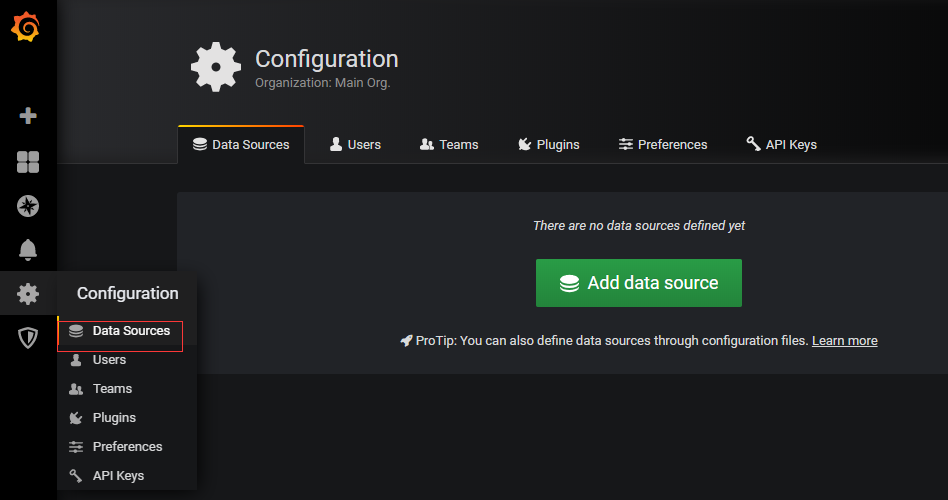
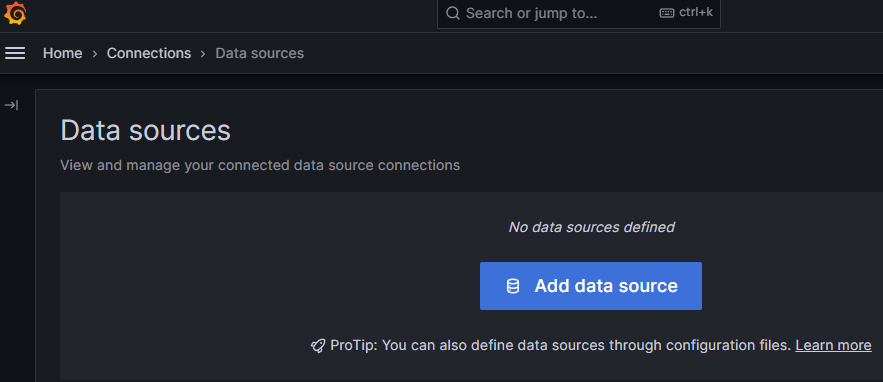
add new docs

diff --git a/i18n/en/docusaurus-plugin-content-docs/current/apps/grafana.md b/i18n/en/docusaurus-plugin-content-docs/current/apps/grafana.md
@@ -1,0 +1,76 @@
+---
+title: Grafana
+slug: /grafana
+tags:
+  - Analytics
+  - Visualization
+  - Log Analysis
+  - Time-series data
+  - Internet of Things
+  - Data Analytics
+---
+
+import Meta from './_include/grafana.md';
+
+<Meta name="meta" />
+
+## Getting started{#guide}
+
+### Verify the installation {#wizard}
+
+After installing Grafana in the **Websoft9 console**, view the application details through **My Applications** and get the login information in the **Access** tab.  
+
+- Grafana console page  
+   ![Grafana Console](./assets/grafana-dashboard-websoft9.png)
+
+- Select **Administration > Plugins**, Add a plugin    
+   ![Grafana Add Plugins](./assets/grafana-plugins-websoft9.png)
+
+- Select **connections > Data Sources**, add a data source (analysis object)    
+   ![Grafana Add Data Sources](./assets/grafana-datasource-websoft9.png)
+
+## Configuration options{#configs}
+
+- Configuration file (path within container): /etc/grafana/grafana.ini
+- [Grafana API](https://grafana.com/docs/grafana/latest/http_api)
+- Command line: `grafana-cli`
+- Default database: built-in SQLite
+
+## Administer{#administrator}
+
+- **smtp configuration**: add smtp configuration segment to configuration file
+
+   ```
+   #################################### SMTP / Send e-mail #####################
+   [smtp]
+   enabled = false
+   host = localhost:25
+   user =
+   # If the password contains # or ;, it must be enclosed in triple quotes. ex """#password;"""
+   password =
+   cert_file =
+   key_file =
+   skip_verify = false
+   from_address = admin@grafana.localhost
+   from_name = Grafana
+   ehlo_identity =
+
+   [email]
+   welcome_email_on_sign_up = false
+   templates_pattern = emails/*.html
+   ```
+
+- **Reset admin password**: run the command `grafana-cli admin reset-admin-password admin123` in the container.
+
+- **Upgrade**: [Upgrade Grafana](https://grafana.com/docs/installation/upgrading/)
+
+
+## Troubleshooting{#troubleshooting}
+
+#### How do I change the database?
+
+Prepare the database, then select **My Apps > compose > Go to Edit Repository > .env**, add the **GF_DATABASE_URL** environment variable to the  **.env** file, and rebuild the application to take effect.
+```
+# mysql example
+GF_DATABASE_URL=mysql://grafana:123456@172.17.0.1:3306/grafana
+```

diff --git a/i18n/en/docusaurus-plugin-content-docs/current/apps/vtigercrm.md b/i18n/en/docusaurus-plugin-content-docs/current/apps/vtigercrm.md
@@ -1,0 +1,60 @@
+---
+title: Vtiger CRM
+slug: /vtiger
+tags:
+  - CRM
+  - Customer Relationship Management
+  - Sales Management
+---
+
+import Meta from './_include/vtiger.md';
+
+<Meta name="meta" />
+
+## Getting started{#guide}
+
+### Initial setup{#wizard}
+
+1. When completed installation of Vtiger CRM at **Websoft9 Console**, get the applicaiton's **Overview** and **Access** information from **My Apps**  
+  
+   - Get access information in the **Access**
+   - Get **database account** in the **Database** 
+
+2. Access the Vtiger CRM installation wizard, when the environment testing step passed, start to fill in the database parameters.
+
+   - Host Name: get from application management 
+   - User Name: `vtiger`
+   - Password: get in the application management
+   - Database Name: `vtiger`
+
+3. Then set the first administrator account.
+
+4. After completing the subsequent settings, enter the console.
+
+
+## Configuration options{#configs}
+
+- Multilingual(✅): You need to download [Language Pack](https://marketplace.vtiger.com/app/listings) first, and then import it as Modules in the backend.
+
+- Module Import(✅): Select **Setting > CRM Setting > Module Management**
+
+- Online Marketplace: Set "Extension Store" in the background to enter the marketplace, and you can install online after registering and logging in.
+
+- SMTP(✅): Select **Settings > CRM Settings > CONFIGURATION > Outgoing Server**
+
+## Administer{#administrator}
+
+
+## Troubleshooting{#troubleshooting}
+
+#### Can't access Vtiger CRM after changing domain name?
+
+ERROR: *Invalid compiled template for 'modules/Install/Header.tpl'*  
+Reason: Vtiger CRM will generate a cache file to record the access address after startup.    
+Solution: Access the Vtiger CRM container and delete the cache file with the following command  
+
+```
+- rm -rf path/test/templates_c/v7
+- rm -rf path/vtigercrm/cache/*
+```
+

diff --git a/i18n/en/docusaurus-plugin-content-docs/current/apps/gogs.md b/i18n/en/docusaurus-plugin-content-docs/current/apps/gogs.md
@@ -1,0 +1,48 @@
+---
+title: Gogs
+slug: /gogs
+tags:
+  - Git 
+  - Code Repository
+  - DevOps
+---
+
+import Meta from './_include/gogs.md';
+
+<Meta name="meta" />
+
+## Getting started{#guide}
+
+### Initial setup{#wizard}
+
+After installing Gogs on the **Websoft9 console**, view the application details through **My Applications** and get the login information in the **Access** tab.  
+
+1. Use your local computer's browser to access the URL and enter the initialization page.   
+
+2. Database Settings: Please choose SQLite, if you choose any other database, you need to prepare available databases in advance.
+
+3. Application Basic Settings: Refer to the instructions to avoid errors when filling.
+
+   - Domain name: use the URL of the current browser access (may include the port), remove the `http://` prefix, keep the latter part.
+   - Application URL: Use the URL currently accessed by your browser.
+   - SSH port: the port of the server that was set when Gogs was installed.
+   - HTTP port: Do not modify.
+
+4. Set the admin account and email address (admin is not allowed as a username).
+
+5. After successful installation, enter the system background
+
+    ![](./assets/gogs-dashboard-websoft9.png)
+
+
+## Configuration options{#configs}
+
+- Cli: `. /gogs -h`
+- [Webhook](https://gogs.io/docs/features/webhook)
+- Multilingual (✅ ): automatically adapts to the browser language, which can also be selected in the bottom menu
+
+## Administer{#administrator}
+
+
+## Troubleshooting{#troubleshooting}
+

diff --git a/i18n/en/docusaurus-plugin-content-docs/current/apps/uptimekuma.md b/i18n/en/docusaurus-plugin-content-docs/current/apps/uptimekuma.md
@@ -1,0 +1,31 @@
+---
+title: Uptime Kuma
+slug: /uptimekuma
+tags:
+  - Surveillance
+  - Operation & Maintenance
+  - Panel
+---
+
+import Meta from './_include/uptimekuma.md';
+
+<Meta name="meta" />
+
+## Getting started{#guide}
+
+### Initial setup{#wizard}
+
+1. When completed installation of Uptime Kuma at **Websoft9 Console**, get the applicaiton's **Overview** and **Access** information from **My Apps**.   
+
+2. Complete account registration according to the initialization wizard.  
+
+3. Add monitoring objects, e.g., enterprise website URL (no other settings).  
+
+## Configuration options{#configs}
+
+- Multilingual(✅)
+
+## Administer{#administrator}
+
+## Troubleshooting{#troubleshooting}
+

diff --git a/i18n/en/docusaurus-plugin-content-docs/current/apps/vault.md b/i18n/en/docusaurus-plugin-content-docs/current/apps/vault.md
@@ -1,0 +1,31 @@
+---
+title: Vault
+slug: /vault
+tags:
+  - Password security
+  - Password Management
+  - vault
+---
+
+import Meta from './_include/vault.md';
+
+<Meta name="meta" />
+
+## Getting started{#guide}
+
+### Initial setup{#wizard}
+
+1. When completed installation of Vault at **Websoft9 Console**, get the applicaiton's **Overview** and **Access** information from **My Apps**  
+
+2. View the logs of the Vault container on the Websoft9 console to get the Token
+
+3. Login to the system using a Token
+
+## Configuration options{#configs}
+
+- CLI(✅ ): CLI icon link in the upper left corner of the Vault console page
+
+## Administer{#administrator}
+
+## Troubleshooting{#troubleshooting}
+

diff --git a/docs/apps/haproxy.md b/docs/apps/haproxy.md
@@ -54,8 +54,8 @@ import Meta from './_include/haproxy.md';
 ## 配置选项{#configs}
 
 - 配置文件（已挂载）：*/usr/local/etc/haproxy/haproxy.cfg*
-- 命令行：`haproxy
-- [HAProxy APIS](https://www.haproxy.com/blog/haproxy-apis/)`
+- 命令行：`haproxy`
+- [HAProxy APIS](https://www.haproxy.com/blog/haproxy-apis/)
 
 ## 管理维护{#administrator}
 
